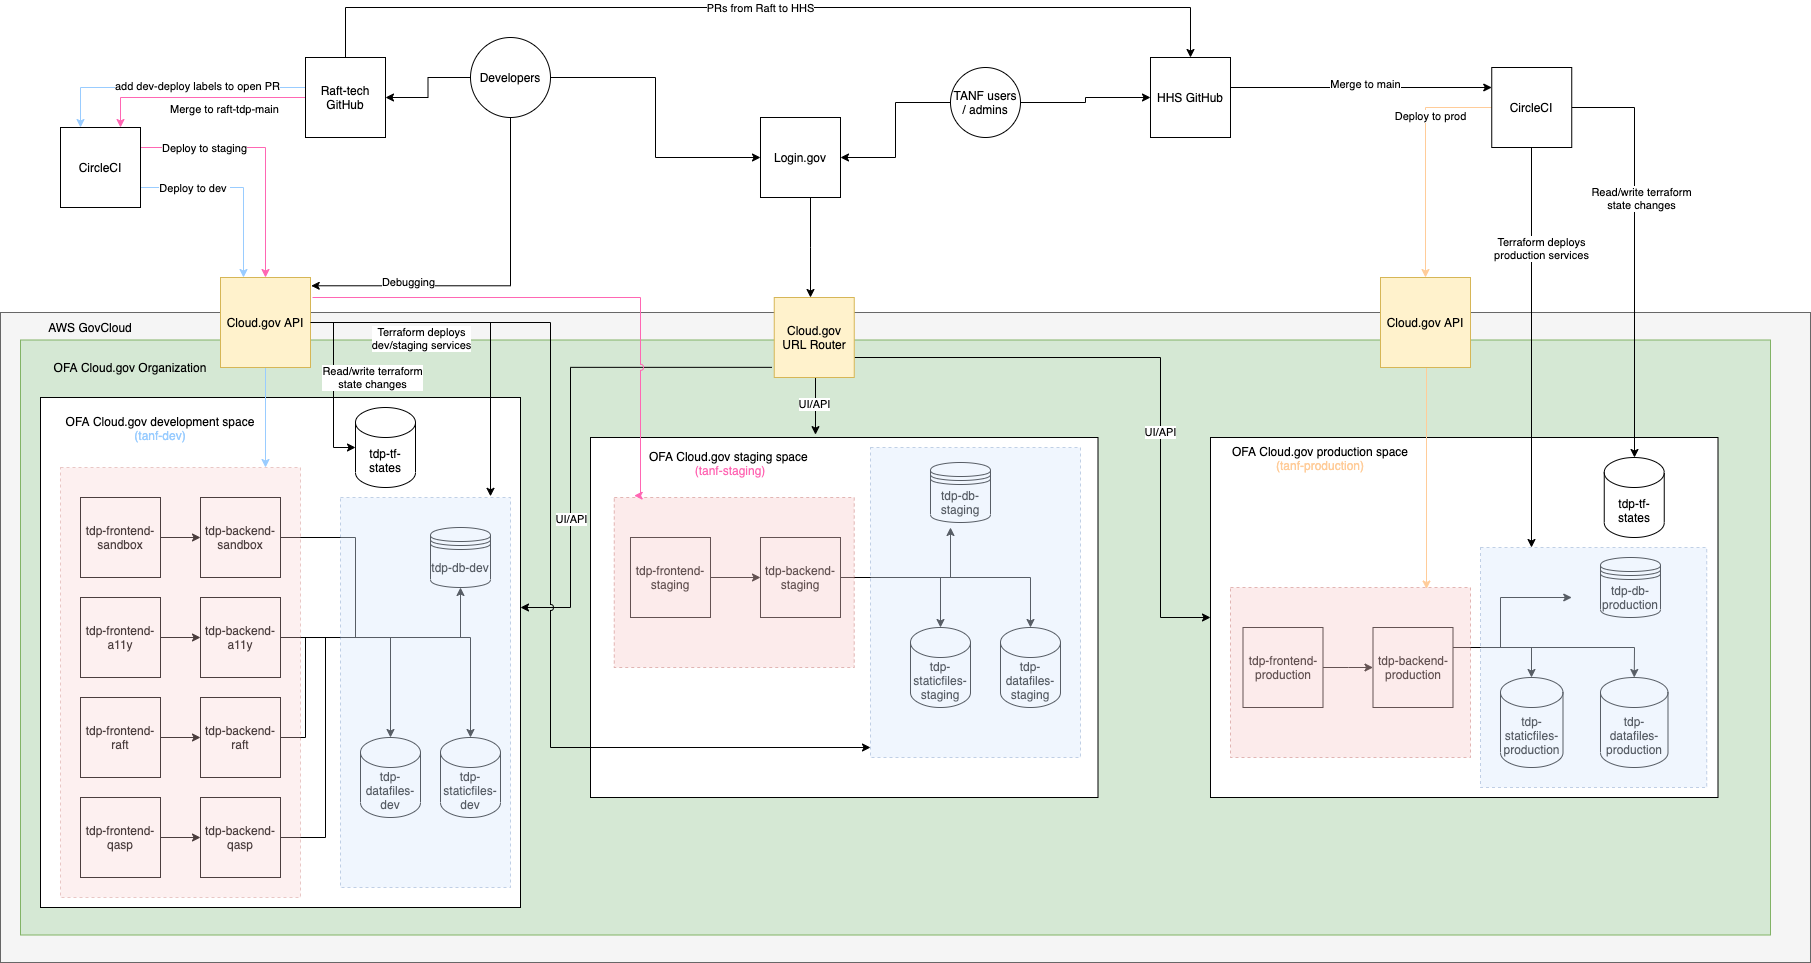
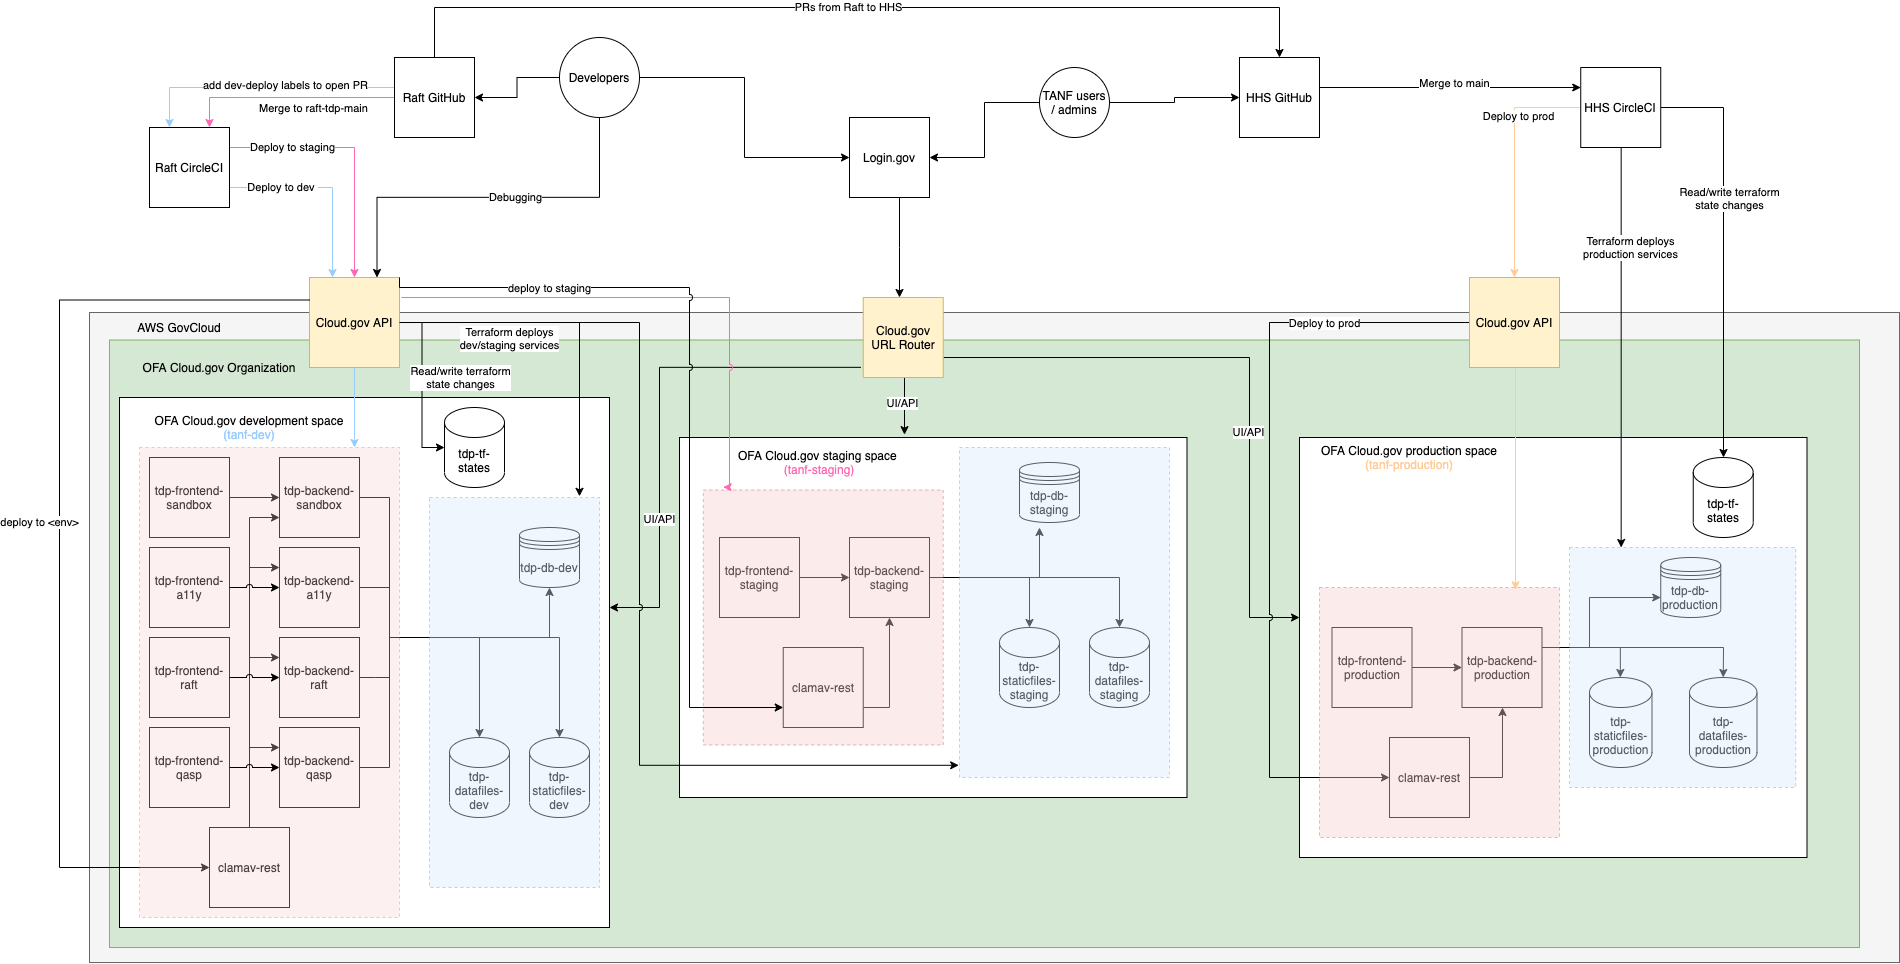
fix: Update diagram and docs with clamav and circleci details

diff --git a/docs/Technical-Documentation/TDP-environments-README.md b/docs/Technical-Documentation/TDP-environments-README.md
@@ -9,7 +9,9 @@
 | QASP | https://tdp-frontend-qasp.app.cloud.gov | https://tdp-backend-qasp.app.cloud.gov | Space for QASP review |
 | raft | https://tdp-frontend-raft.app.cloud.gov | https://tdp-backend-raft.app.cloud.gov | Space for raft review |
 
-### Common Dependencies
+### Dependencies 
+
+- `clamav-rest`
 
 **Cloud.gov AWS RDS `(tanf-dev)`**
 - `tdp-db-dev`
@@ -27,6 +29,10 @@ Unlike Development, the Staging environment contains a single frontend and backe
 | -------- | -------- | -------- |
 | https://tdp-frontend-staging.app.cloud.gov | https://tdp-backend-staging.app.cloud.gov     | Space for government users to test in a deployed, production-like environment    |
 
+### Dependencies 
+
+- `clamav-rest`
+
 **Cloud.gov AWS RDS `(tanf-staging)`**
 - `tdp-db-staging`
   
@@ -41,6 +47,14 @@ Unlike Development, the Staging environment contains a single frontend and backe
 
 Like Staging, there is only one Production deployment.
 
+| Frontend URL | Backend URL | Purpose |
+| -------- | -------- | -------- |
+| https://tdp-frontend-production.app.cloud.gov | https://tdp-backend-production.app.cloud.gov     | Production space for active users of the application.    |
+
+### Dependencies 
+
+- `clamav-rest`
+
 **Cloud.gov AWS RDS `(tanf-production)`**
 - `tdp-db-production`
   
@@ -49,10 +63,6 @@ Like Staging, there is only one Production deployment.
 - `tdp-datafiles-production`
 - `tdp-tf-states` - Stores the Terraform state files used to create and re-recreate services infrastructure.
 
-| Frontend URL | Backend URL | Purpose |
-| -------- | -------- | -------- |
-| https://tdp-frontend-production.app.cloud.gov | https://tdp-backend-production.app.cloud.gov     | Production space for active users of the application.    |
-
 ## External Dependencies
 
 These are shared across all environments.
@@ -60,3 +70,4 @@ These are shared across all environments.
 - [CircleCI](https://circleci.com/)
 - [Login.gov](https://login.gov/)
 - [Cloud.gov](https://cloud.gov/)
+- [ClamAV Rest](https://registry.hub.docker.com/r/rafttech/clamav-rest)
